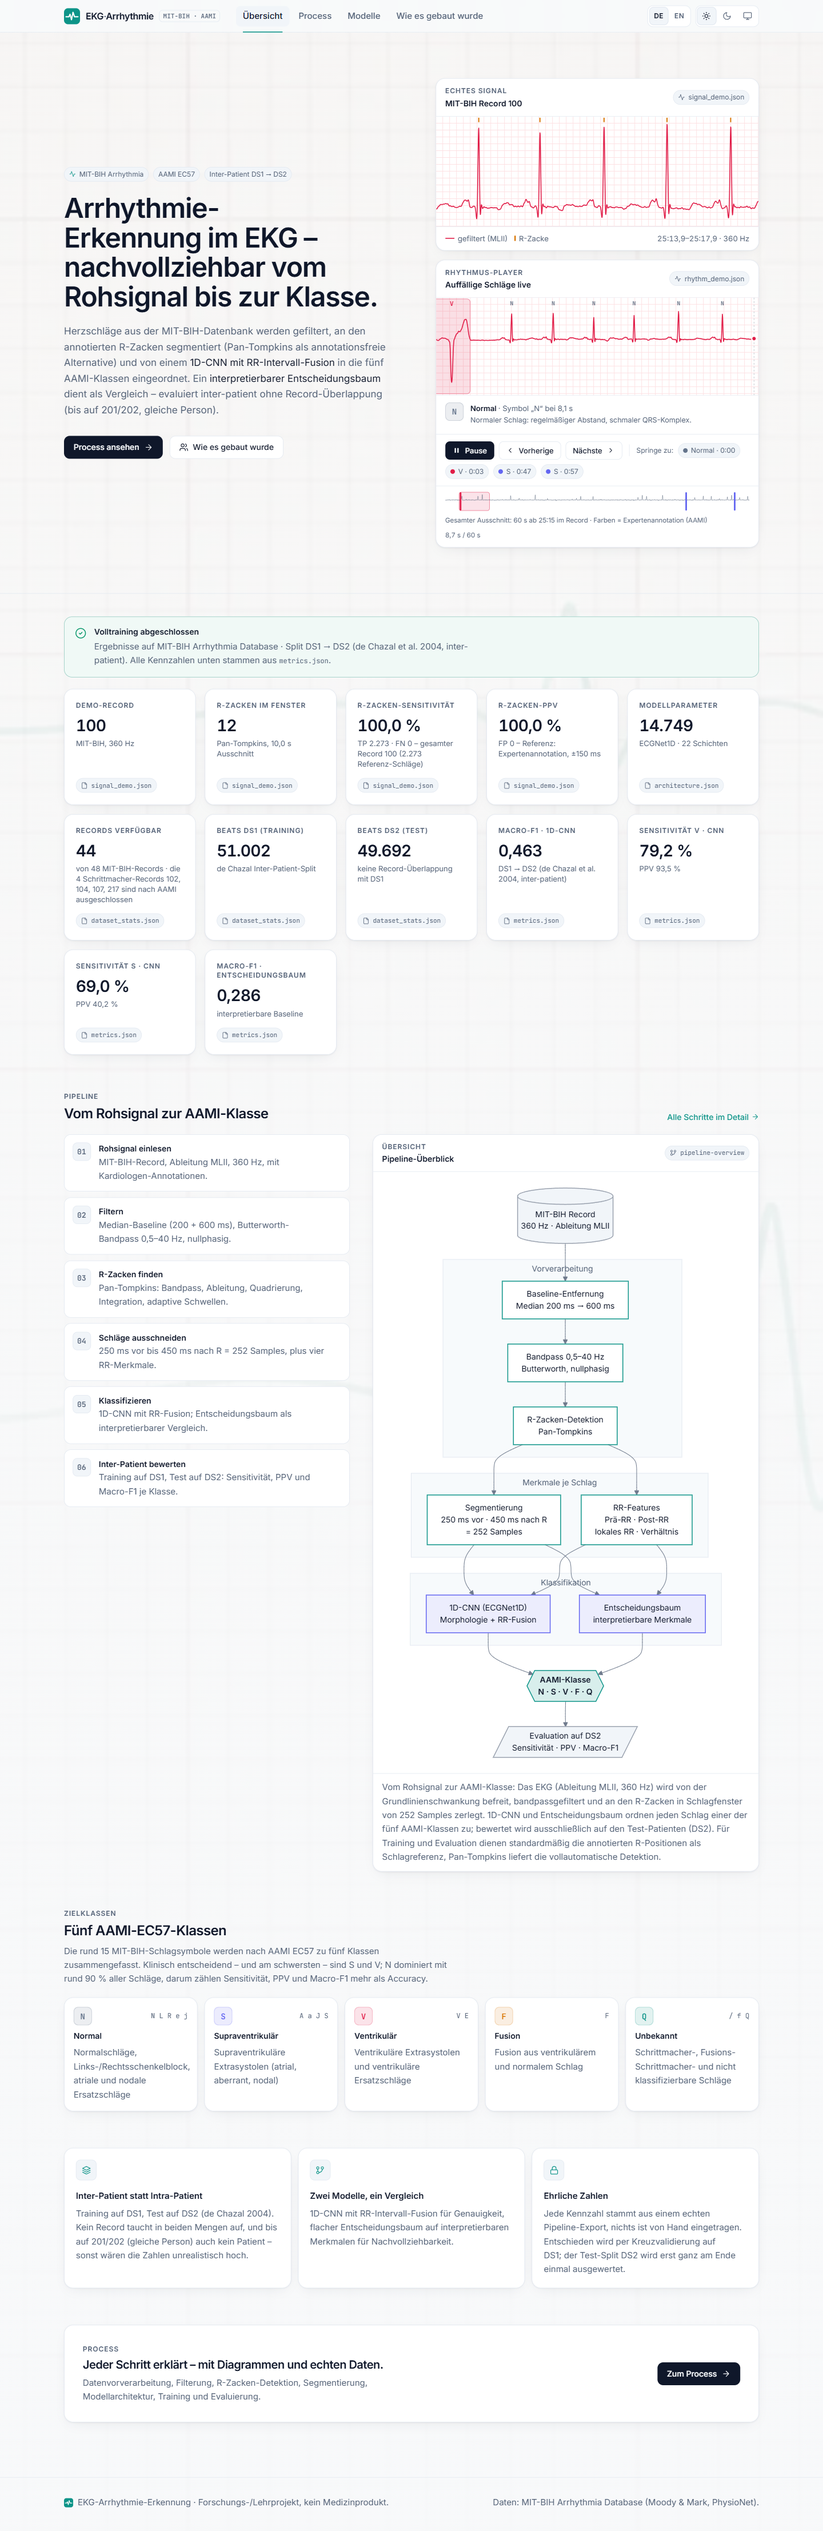
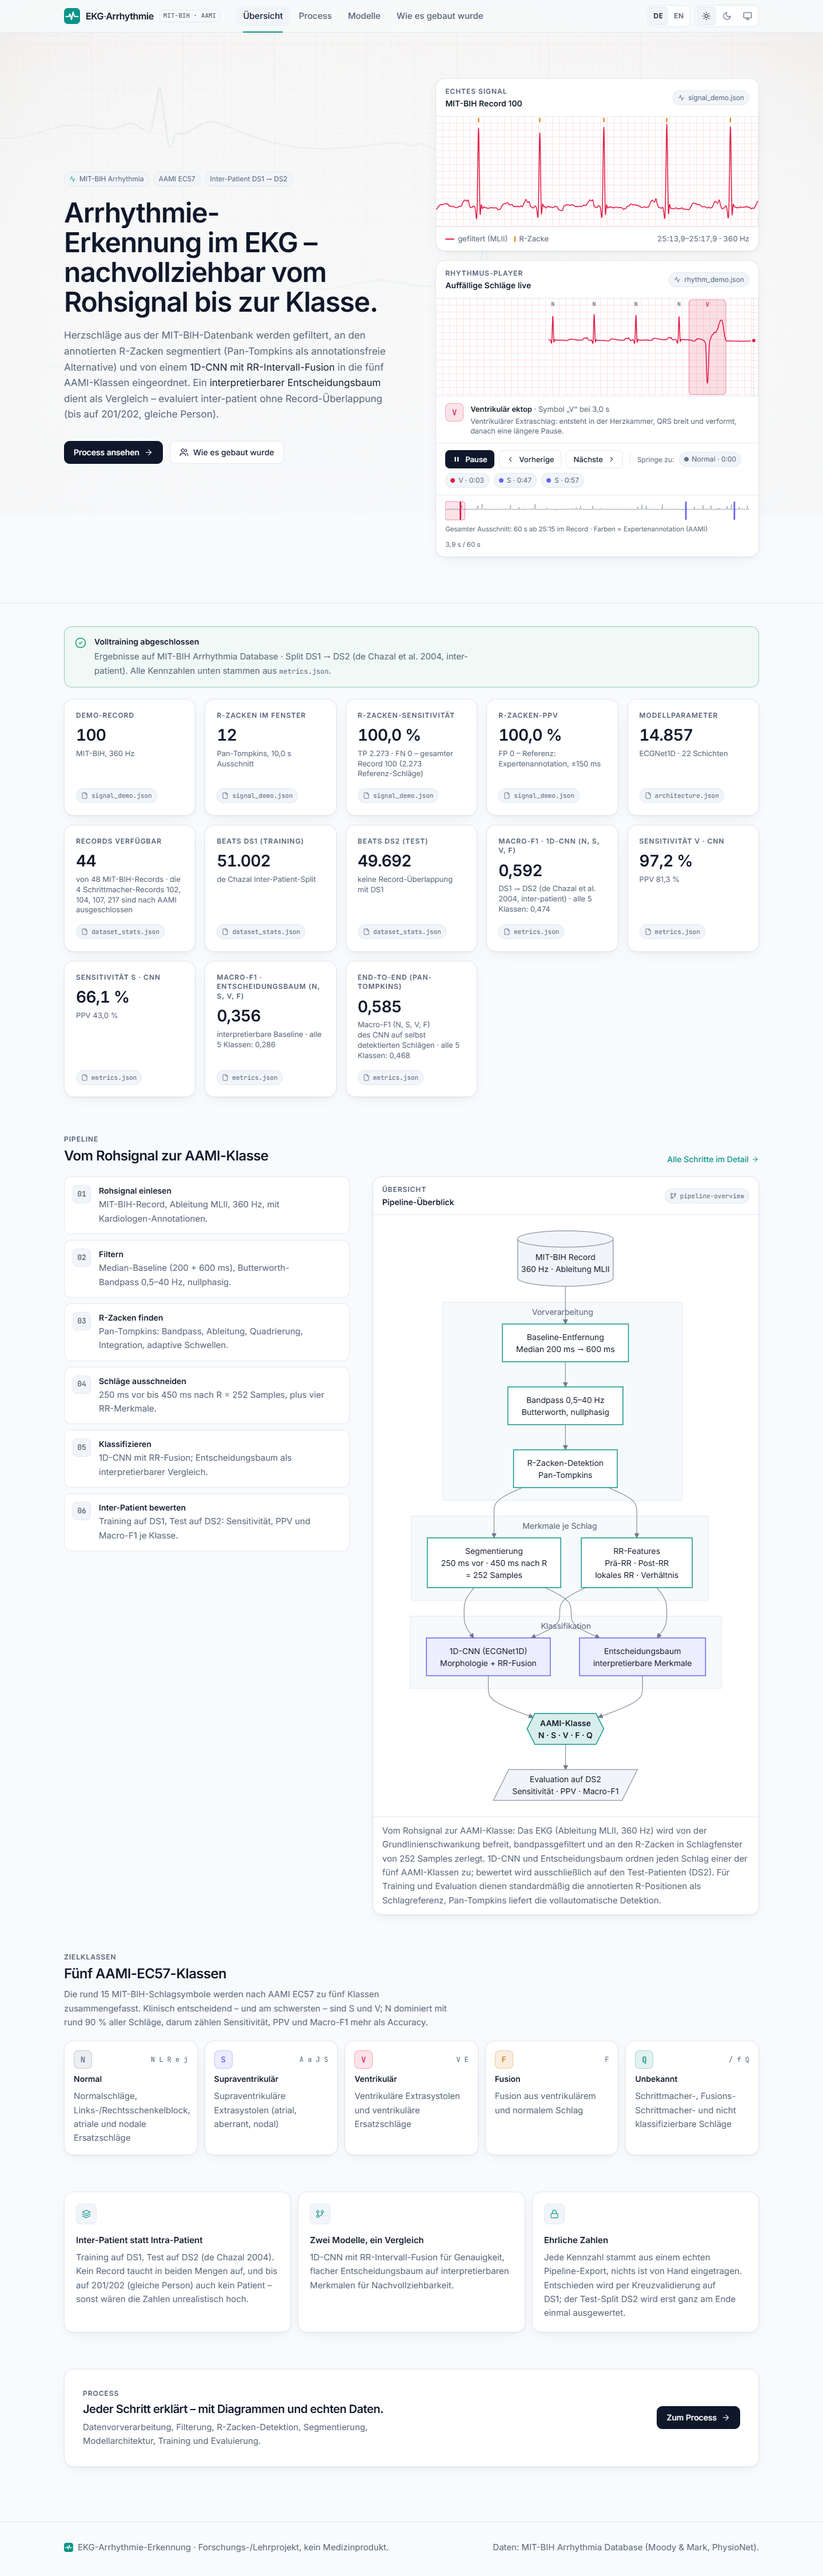
Feinschliff vor der Veroeffentlichung
- Startseite: Macro-F1 ueber N/S/V/F als Hauptzahl (wie README/Bericht), 5-Klassen-Wert im Hinweis
- Screenshots mit finalen Zahlen neu aufgenommen, README nutzt einen Hero-Ausschnitt
- README verlinkt PDF-Bericht, FAQ und Experiment-Protokoll
- ERKLAERT.md als oeffentliche FAQ formuliert
- LinkedIn-Entwuerfe aus dem Repo genommen (lokal unter private/, ignoriert)

diff --git a/web/src/views/overview.js b/web/src/views/overview.js
@@ -104,12 +104,16 @@ function buildTiles({ signal, arch, stats, metrics }) {
   if (metrics && metrics.status === 'complete') {
     const cnn = metrics.cnn?.summary;
     const tree = metrics.tree?.summary;
-    if (cnn?.macro_f1 != null) tiles.push({ label: tr('Macro-F1 · 1D-CNN', 'Macro F1 · 1D CNN'), value: fmt(cnn.macro_f1, 3), unit: '', hint: `${esc(metrics.split || 'DS1 → DS2')}`, src: 'metrics.json' });
+    // Headline macro F1 over N/S/V/F (as in README, report and literature); Q has only a handful of beats.
+    const nsvf = (s) => s?.macro_f1_nsvf ?? s?.macro_f1;
+    const all5 = (s) => (s?.macro_f1_nsvf != null && s?.macro_f1 != null ? ` · ${tr('alle 5 Klassen', 'all 5 classes')}: ${fmt(s.macro_f1, 3)}` : '');
+    const f1Label = (de, en) => (cnn?.macro_f1_nsvf != null ? tr(`${de} (N, S, V, F)`, `${en} (N, S, V, F)`) : tr(de, en));
+    if (nsvf(cnn) != null) tiles.push({ label: f1Label('Macro-F1 · 1D-CNN', 'Macro F1 · 1D CNN'), value: fmt(nsvf(cnn), 3), unit: '', hint: `${esc(metrics.split || 'DS1 → DS2')}${all5(cnn)}`, src: 'metrics.json' });
     if (cnn?.per_class?.V?.sensitivity != null) tiles.push({ label: tr('Sensitivität V · CNN', 'Sensitivity V · CNN'), value: pct(cnn.per_class.V.sensitivity), unit: '', hint: `PPV ${pct(cnn.per_class.V.ppv)}`, src: 'metrics.json' });
     if (cnn?.per_class?.S?.sensitivity != null) tiles.push({ label: tr('Sensitivität S · CNN', 'Sensitivity S · CNN'), value: pct(cnn.per_class.S.sensitivity), unit: '', hint: `PPV ${pct(cnn.per_class.S.ppv)}`, src: 'metrics.json' });
-    if (tree?.macro_f1 != null) tiles.push({ label: tr('Macro-F1 · Entscheidungsbaum', 'Macro F1 · decision tree'), value: fmt(tree.macro_f1, 3), unit: '', hint: tr('interpretierbare Baseline', 'interpretable baseline'), src: 'metrics.json' });
+    if (nsvf(tree) != null) tiles.push({ label: f1Label('Macro-F1 · Entscheidungsbaum', 'Macro F1 · decision tree'), value: fmt(nsvf(tree), 3), unit: '', hint: `${tr('interpretierbare Baseline', 'interpretable baseline')}${all5(tree)}`, src: 'metrics.json' });
     const e2e = metrics.detected_peaks?.cnn?.summary;
-    if (e2e?.macro_f1 != null) tiles.push({ label: tr('End-to-End (Pan-Tompkins)', 'End to end (Pan-Tompkins)'), value: fmt(e2e.macro_f1, 3), unit: '', hint: tr('Macro-F1 des CNN auf selbst detektierten Schlägen', 'CNN macro F1 on self-detected beats'), src: 'metrics.json' });
+    if (nsvf(e2e) != null) tiles.push({ label: tr('End-to-End (Pan-Tompkins)', 'End to end (Pan-Tompkins)'), value: fmt(nsvf(e2e), 3), unit: '', hint: `${tr('Macro-F1 (N, S, V, F) des CNN auf selbst detektierten Schlägen', 'CNN macro F1 (N, S, V, F) on self-detected beats')}${all5(e2e)}`, src: 'metrics.json' });
   }
   return tiles;
 }

diff --git a/docs/ERKLAERT.md b/docs/ERKLAERT.md
@@ -1,8 +1,8 @@
-# Erklärt: Spickzettel fürs Gespräch
+# Erklärt: Fragen und Antworten zum Projekt
 
-Kurze Antworten zum Frei-Erzählen, je 2–4 Sätze, mit Verweis auf die Stelle im Code. Die
-Antworten selbst enthalten keine Modellzahlen; die stehen gesammelt im Block
-[Zahlen zum Merken](#zahlen-zum-merken) am Ende.
+Kurze Antworten auf die Fragen, die man zu diesem Projekt am häufigsten stellt – je 2–4 Sätze,
+mit Verweis auf die Stelle im Code. Die Antworten selbst enthalten keine Modellzahlen; die stehen
+gesammelt in [Die wichtigsten Zahlen](#die-wichtigsten-zahlen) am Ende.
 
 ## Daten und Auswertung
 
@@ -148,7 +148,7 @@ würde ich laufend statt über den ganzen Record berechnen, damit das Modell ech
 
 Beleg: [EXPERIMENTS.md](EXPERIMENTS.md) (A1, A3, A5), [PLAN.md](PLAN.md) (A9).
 
-## Typische Rückfragen
+## Häufige Fragen
 
 **1. „Warum klappt V gut, S aber schlecht?“**
 V-Schläge sehen anders aus (breiter, verformter QRS-Komplex), das sieht das CNN direkt in der Form.
@@ -182,7 +182,7 @@ Tests, kalibrierte Wahrscheinlichkeiten statt nur Klassen und eine klinische Val
 die Regulierung als Medizinprodukt (in der EU die MDR) mit dokumentiertem Software-Lebenszyklus.
 Dieses Projekt ist bewusst ein Lern- und Portfolio-Projekt und kein Medizinprodukt.
 
-## Zahlen zum Merken
+## Die wichtigsten Zahlen
 
 <!-- METRICS:START -->
 <!-- final: Werte aus web/public/data/metrics.json (generated_at 2026-11-03T12:05:00+00:00) und docs/EXPERIMENTS.md. Einmalige DS2-Auswertung mit Konfiguration aus Commit 72b1cab. -->

diff --git a/README.md b/README.md
@@ -10,7 +10,11 @@ der MIT-BIH Arrhythmia Database den fünf AAMI-EC57-Klassen **N, S, V, F, Q** zu
 **Live-Demo:** <https://leonrohrer.at/ekg-arrhythmia/> – zeigt jeden Schritt vom Rohsignal bis
 zur Klasse, mit Diagrammen und echten Daten.
 
-![Startseite der Web-Oberfläche: Signal von Record 100, Rhythmus-Player, Kennzahlen und Pipeline](docs/screenshots/overview-light.png)
+![Startseite der Web-Oberfläche: Signal von Record 100 und Rhythmus-Player](docs/screenshots/overview-hero.png)
+
+**Projektbericht (PDF, Englisch, 14 Seiten):** [docs/report/ekg-arrhythmia-report.pdf](docs/report/ekg-arrhythmia-report.pdf) ·
+**Fragen und Antworten:** [docs/ERKLAERT.md](docs/ERKLAERT.md) · **Experiment-Protokoll:**
+[docs/EXPERIMENTS.md](docs/EXPERIMENTS.md)
 
 > Lern- und Portfolio-Projekt. **Kein Medizinprodukt**, nicht für Diagnosen geeignet.
 

diff --git a/README.en.md b/README.en.md
@@ -10,7 +10,11 @@ agents**.
 **Live demo:** <https://leonrohrer.at/ekg-arrhythmia/> – shows every step from the raw signal to
 the class, with diagrams and real data.
 
-![Home page of the web UI: signal of record 100, rhythm player, metrics and pipeline](docs/screenshots/overview-light.png)
+![Home page of the web UI: signal of record 100 and rhythm player](docs/screenshots/overview-hero.png)
+
+**Project report (PDF, 14 pages):** [docs/report/ekg-arrhythmia-report.pdf](docs/report/ekg-arrhythmia-report.pdf) ·
+**Q&A (German):** [docs/ERKLAERT.md](docs/ERKLAERT.md) · **Experiment log (German):**
+[docs/EXPERIMENTS.md](docs/EXPERIMENTS.md)
 
 > Learning and portfolio project. **Not a medical device**, not suitable for diagnosis.
 

diff --git a/docs/PLAN.md b/docs/PLAN.md
@@ -112,7 +112,7 @@ Fertig, wenn: kein Satz mehr sagt „physionet gesperrt“ oder „noch keine Ke
 Fertig, wenn: `grep` nach „ausstehend|pending|gesperrt|blocked“ trifft nur noch Code für
 Leerzustände, keine Inhaltstexte.
 
-**B3 Interview-Spickzettel** (`docs/ERKLAERT.md`, nur für mich, nicht öffentlich nötig):
+**B3 Fragen und Antworten** (`docs/ERKLAERT.md`, als öffentliche FAQ):
 Warum inter-patient? Warum Macro-F1 statt Accuracy? Warum scheitert F? Was macht
 Pan-Tompkins? Was ist die VEB-Regel? Warum ist DS2 heilig? Wie liefen die Agenten?
 Fertig, wenn: ich jede Frage in 2–3 Sätzen frei beantworten kann.
